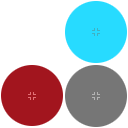
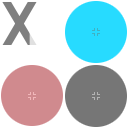
Add support for no tile (-1)

Changed region(s): [[0.0, 0.5, 0.5, 1.0], [0.0, 0.0, 0.2812, 0.375]]

diff --git a/src/map.cpp b/src/map.cpp
@@ -50,6 +50,9 @@ void Map::Render(const Layer* layer) const
     {
         for (int i = 0; i < tiles_in_row; i++)
         {
+            if (layer->tile_map[j * tiles_in_row + i] == -1)
+                continue;
+            
             src_rect->x = (layer->tile_map[j * tiles_in_row + i] % layer->spritesheet_cols) * tile_size;
             src_rect->y = (layer->tile_map[j * tiles_in_row + i] / layer->spritesheet_cols) * tile_size;
             src_rect->w = tile_size;
